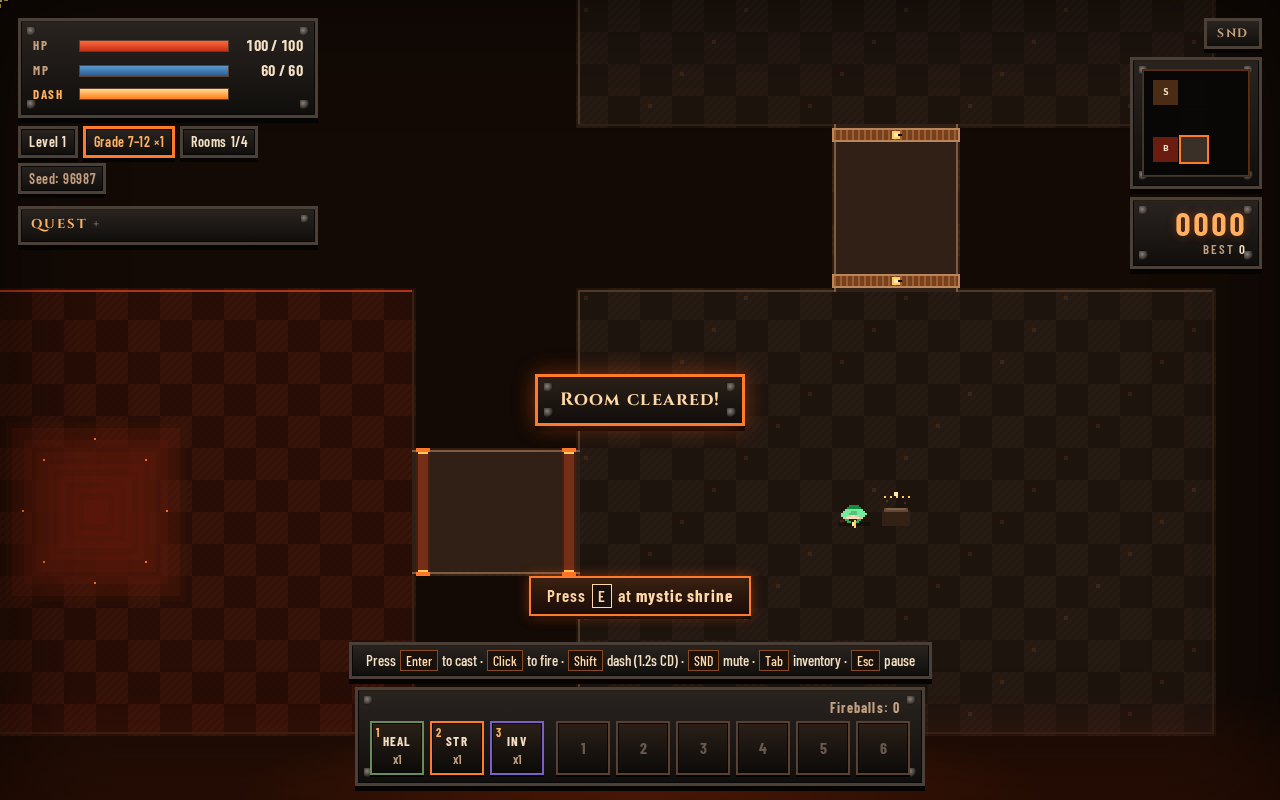
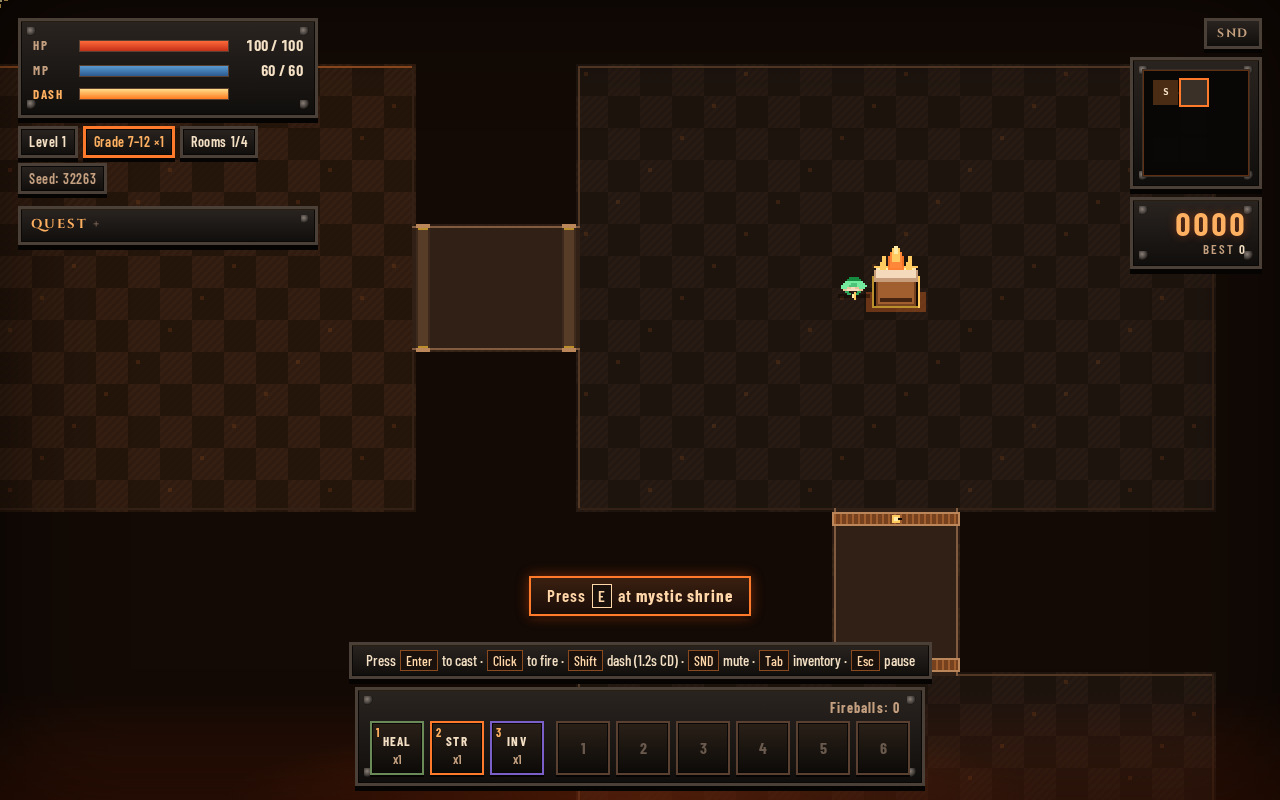
Make the mystic shrine contrast clearly against the floor

diff --git a/js/game.js b/js/game.js
@@ -2082,19 +2082,37 @@
         var bob = Math.round(Math.sin((animTime || 0) * 3.2 + s.x * 0.01) * PX * 2);
         var sx = Math.round(s.x);
         var sy = Math.round(s.y) + bob;
+        var pulse = 0.5 + 0.5 * Math.sin((animTime || 0) * 4);
         ctx.save();
         ctx.imageSmoothingEnabled = false;
-        drawRect(ctx, sx - 14, sy + 2, 28, 16, PIXEL_PAL.stoneLo);
-        drawRect(ctx, sx - 12, sy, 24, PX * 2, PIXEL_PAL.stone);
-        drawRect(ctx, sx - 10, sy, 20, PX, PIXEL_PAL.stoneHi);
-        for (var col = -2; col <= 2; col++) {
-            px(ctx, sx + col * PX * 3, sy - PX * 6, PIXEL_PAL.gold);
-        }
-        drawRect(ctx, sx - PX, sy - PX * 8, PX * 2, PX * 2, PIXEL_PAL.goldHi);
-        var glow = 0.55 + 0.45 * Math.sin((animTime || 0) * 4);
-        ctx.globalAlpha = glow;
-        px(ctx, sx - PX * 5, sy - PX * 4, PIXEL_PAL.goldHi);
-        px(ctx, sx + PX * 4, sy - PX * 3, PIXEL_PAL.goldHi);
+        ctx.globalAlpha = 0.18 + pulse * 0.16;
+        drawRect(ctx, sx - 30, sy + 8, 60, 20, "#ff7a2a");
+        ctx.globalAlpha = 0.28 + pulse * 0.22;
+        drawRect(ctx, sx - 20, sy + 10, 40, 12, PIXEL_PAL.gold);
+        ctx.globalAlpha = 1;
+        drawRect(ctx, sx - 22, sy - 8, 44, 32, PIXEL_PAL.black);
+        drawRect(ctx, sx - 22, sy - 10, 44, 2, PIXEL_PAL.gold);
+        drawRect(ctx, sx - 22, sy + 22, 44, 2, PIXEL_PAL.goldLo);
+        drawRect(ctx, sx - 24, sy - 8, 2, 32, PIXEL_PAL.goldLo);
+        drawRect(ctx, sx + 22, sy - 8, 2, 32, PIXEL_PAL.gold);
+        drawRect(ctx, sx - 20, sy - 6, 40, 28, PIXEL_PAL.wood);
+        drawRect(ctx, sx - 18, sy - 4, 36, 24, PIXEL_PAL.woodHi);
+        drawRect(ctx, sx - 16, sy + 14, 32, 4, PIXEL_PAL.woodLo);
+        drawRect(ctx, sx - 22, sy - 14, 44, 12, "#c4a080");
+        drawRect(ctx, sx - 20, sy - 16, 40, 10, PIXEL_PAL.white);
+        drawRect(ctx, sx - 18, sy - 18, 36, 4, PIXEL_PAL.goldHi);
+        drawRect(ctx, sx - 22, sy - 18, 44, 2, PIXEL_PAL.gold);
+        ctx.globalAlpha = 0.55 + pulse * 0.4;
+        drawRect(ctx, sx - 8, sy - 28, 16, 14, "#ff7a2a");
+        ctx.globalAlpha = 1;
+        drawRect(ctx, sx - 6, sy - 32, 12, 16, PIXEL_PAL.fire);
+        drawRect(ctx, sx - 4, sy - 36, 8, 14, PIXEL_PAL.fireHi);
+        drawRect(ctx, sx - 2, sy - 38, 4, 8, PIXEL_PAL.goldHi);
+        drawRect(ctx, sx - 16, sy - 22, 6, 8, PIXEL_PAL.gold);
+        drawRect(ctx, sx + 10, sy - 22, 6, 8, PIXEL_PAL.gold);
+        ctx.globalAlpha = 0.6 + pulse * 0.4;
+        drawRect(ctx, sx - 14, sy - 28, 4, 6, PIXEL_PAL.fireHi);
+        drawRect(ctx, sx + 12, sy - 28, 4, 6, PIXEL_PAL.fireHi);
         ctx.restore();
     }
 
